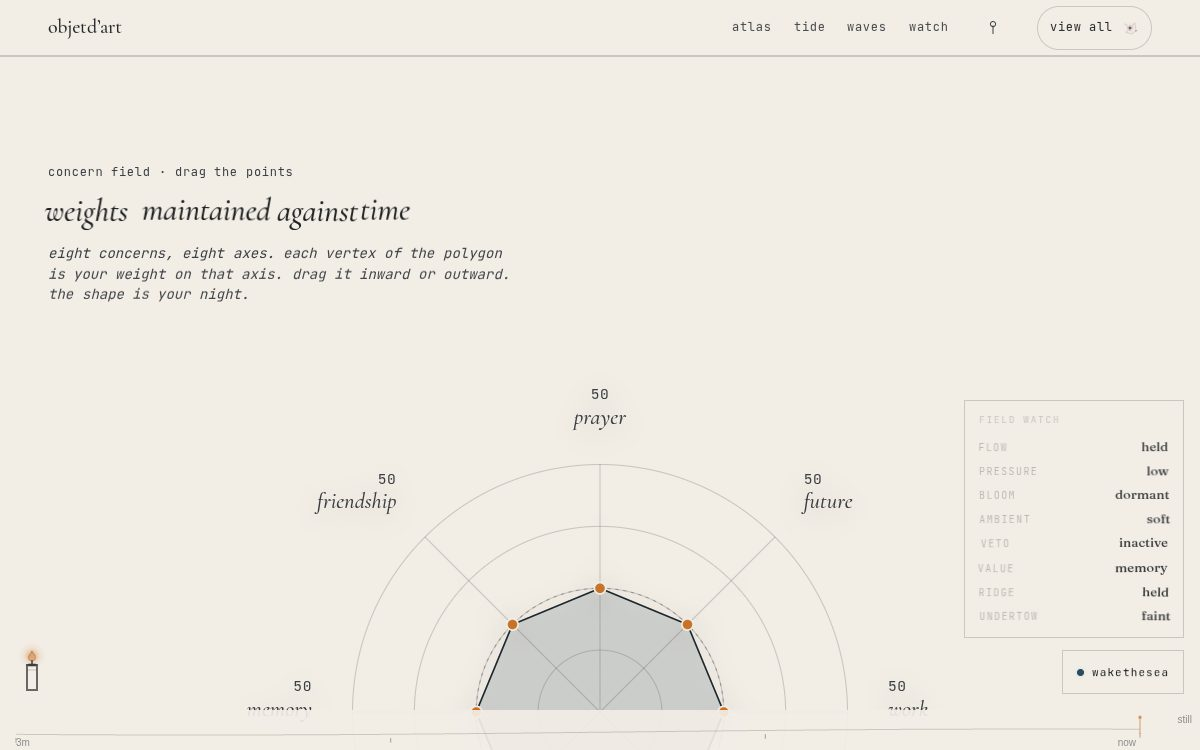
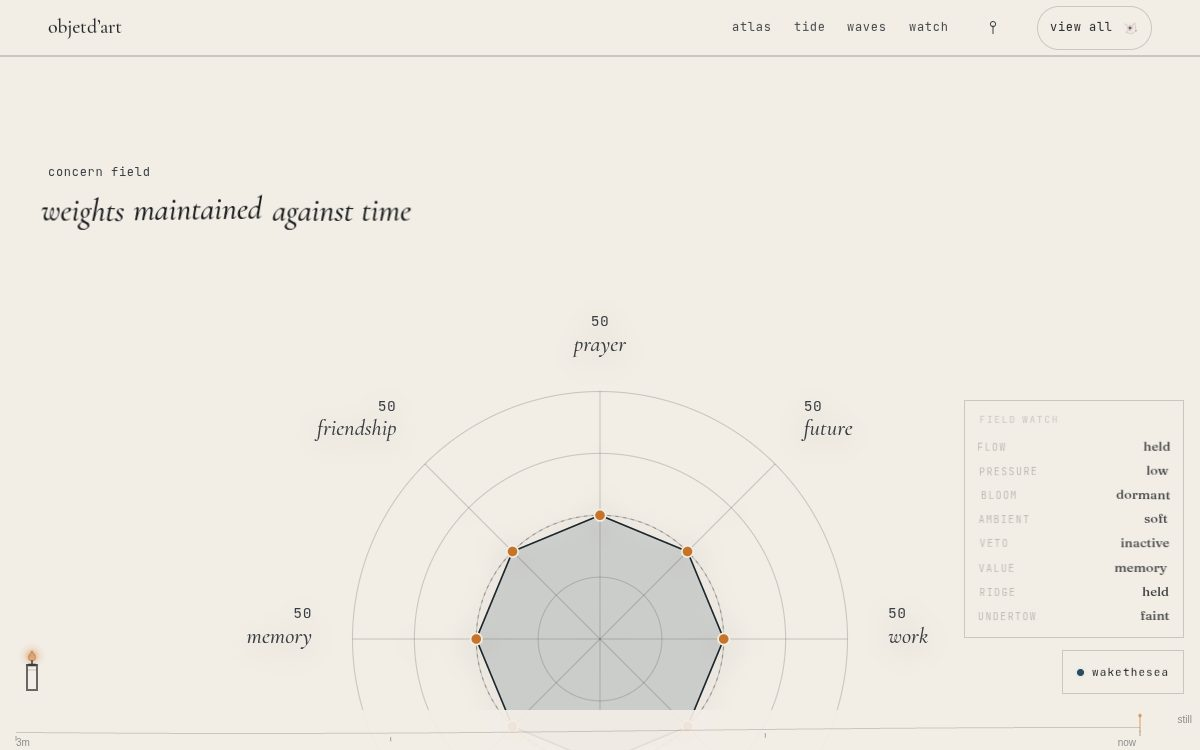
docs(iterations): the orb lights, and the mountain draws nothing quickly
The orb compiles on a real driver now and stands three discs up on arrival.

The mountain is measured rather than guessed: 61 fps under software GL against
22 for the coast and 12 for the clouds, and a uniform cream field. A per-pixel
ray-march cannot outrun its drawing neighbours by three times; it is not marching
at all. Two red herrings recorded with it — a 2 fps first-paint transient that is
the relief bake, and a Playwright font-wait that looks like a hung room.

Claude-Session: https://claude.ai/code/session_01RLxHUB3sbWB6VFL43z6bp7

diff --git a/src/lib/heightfield.ts b/src/lib/heightfield.ts
@@ -65,8 +65,8 @@ export function mulberry32(seed: number): () => number {
  * on a number the field differentiates. A few hundred kilometres is already
  * many wavelengths of the coarsest octave — every seed gets its own range —
  * and it keeps the shader's arithmetic in the part of float32 that still
- * has digits. It also stays inside one HASH_MOD period (289 / BASE_FREQ ≈
- * 1763 km), so two seeds cannot alias onto the same mountain.
+ * has digits. It also stays inside one HASH_MOD period (512 / BASE_FREQ ≈
+ * 3123 km), so two seeds cannot alias onto the same mountain.
  */
 export const SEED_SPREAD_KM = 512;
 
@@ -113,20 +113,31 @@ export function seedOffset(seed: number): [number, number] {
 // rectangle. Nothing in node could see it, because node has no float32.
 //
 // So the hash is an exact one instead. Every intermediate below is an
-// integer under 2^24, which float32 and float64 both hold exactly, and the
-// only division is by HASH_MOD, whose quotient's fractional part is never
-// nearer an integer than 1/HASH_MOD — so `floor` cannot disagree either.
-// Two languages, one answer, bit for bit. scripts/test-heightfield.mjs
-// pins that by running the whole hash again under Math.fround.
+// integer under 2^24, which float32 and float64 both hold exactly, and
+// every division is by a power of two, which is exact in both. Nothing
+// rounds anywhere, so the two languages return the same bits — not nearly
+// the same number, the same bits. scripts/test-heightfield.mjs pins that by
+// running the whole hash again under Math.fround.
 
 /**
- * The permutation modulus: 17², chosen because
- * `v -> (HASH_MUL·v + 1)·v mod 17²` is a bijection there (it is not, on a
- * prime), so each round is a shuffle rather than a collapse. 289 is also
- * small enough that the largest product it can produce,
- * (34·288 + 1)·288 = 2820384, sits comfortably under float32's 2^24.
+ * The permutation modulus, and why it is a power of two.
+ *
+ * `v -> (HASH_MUL·v + 1)·v mod M` is a bijection whenever HASH_MUL is even:
+ * the difference of two outputs factors as (x−y)·(HASH_MUL·(x+y) + 1), and
+ * that second factor is odd, so it is invertible mod any 2^k. A shuffle,
+ * then, never a collapse — and unlike an odd modulus it needs no division:
+ * 1/512 is exact, so `floor(v · HASH_INV_MOD)` and `v · HASH_INV_MOD`
+ * round-trip identically in float32 and float64 rather than merely closely.
+ * (289 = 17² is the other bijective choice and was measured against this
+ * one: same distribution, twenty times the lattice correlation, three
+ * divides per hash instead of three multiplies, and agreement only to 3e-8
+ * instead of exact.)
+ *
+ * The largest product it can produce, (34·511 + 1)·511 = 8878625, sits well
+ * under float32's exactly-representable 2^24.
  */
-export const HASH_MOD = 289;
+export const HASH_MOD = 512;
+export const HASH_INV_MOD = 1 / 512;
 export const HASH_MUL = 34;
 
 function fract(v: number): number {
@@ -143,7 +154,7 @@ function smoothstep(e0: number, e1: number, x: number): number {
 }
 
 function hashWrap(v: number): number {
-  return v - HASH_MOD * Math.floor(v / HASH_MOD);
+  return v - HASH_MOD * Math.floor(v * HASH_INV_MOD);
 }
 
 function hashPermute(v: number): number {
@@ -157,16 +168,17 @@ function hashPermute(v: number): number {
  * that shows the shift as diagonal corduroy across the whole range.
  *
  * Periodic with period HASH_MOD in both axes by construction. At the
- * coarsest octave that is 1763 km, far past MARCH_MAX_KM; at the finest it
- * is 23 km, carrying 15 m of amplitude — and each octave is turned, so no
- * two repeats line up in world space.
+ * coarsest octave that is 3123 km, a hundred times MARCH_MAX_KM; at the
+ * finest it is 41 km, still past the marcher's own horizon, and carrying
+ * 15 m of amplitude — and each octave is turned, so no two repeats could
+ * line up in world space even if the eye could reach them.
  */
 export function hash21(x: number, y: number): number {
   const wx = hashWrap(x);
   const wy = hashWrap(y);
   const a = hashPermute(wx);
   const b = hashPermute(hashWrap(a + wy));
-  return hashPermute(hashWrap(b + wx)) / HASH_MOD;
+  return hashPermute(hashWrap(b + wx)) * HASH_INV_MOD;
 }
 
 /** Value noise in [0,1] with its exact gradient: [v, dv/dx, dv/dy]. */
@@ -696,8 +708,28 @@ export function submerged(
 
 // ——— where the wanderer stands ————————————————————————————————
 
-/** How far above the inversion the composition wants the eye, in km. */
-export const STATION_ABOVE_FOG_KM = 0.11;
+/**
+ * How far above the inversion the composition wants the eye — measured in
+ * the fog's OWN scale heights, which is the only unit that means anything
+ * here and the whole of a second bug.
+ *
+ * A hundred metres over the fog top sounds like standing above the fog. It
+ * is not: density falls as exp(−Δ/FOG_SCALE_HEIGHT_KM), and with a scale
+ * height of 290 m, 110 m up still leaves 0.70 of the fog's full density in
+ * the air at the eye — about half a kilometre of horizontal visibility. The
+ * room rendered exactly that, a uniform grey wash with a ridge somewhere in
+ * it, and the number gave no hint, because 0.11 km is not comparable to
+ * anything unless you already know what it is being compared to.
+ *
+ * Two and a half scale heights leaves 8% — clear air at the eye, a kilometre
+ * still legible at 40%, the far range fading at 8 km. That is the picture:
+ * near ridges crisp, distant ones dissolving, and the fog a sea you are
+ * standing over rather than weather you are standing in. Written as a
+ * multiple so raising FOG_SCALE_HEIGHT_KM can never quietly drown the eye
+ * again.
+ */
+export const STATION_FOG_CLEARANCE = 2.5;
+export const STATION_ABOVE_FOG_KM = STATION_FOG_CLEARANCE * FOG_SCALE_HEIGHT_KM;
 /** Bearings walked down off the apex looking for that altitude. */
 export const STATION_BEARINGS = 64;
 export const STATION_INNER_KM = 0.12;
@@ -1198,6 +1230,7 @@ export function glslFloat(v: number): string {
 /** The float constants the GLSL shares with the TS, by their GLSL names. */
 export const HEIGHTFIELD_GLSL_FLOATS: Readonly<Record<string, number>> = {
   HASH_MOD,
+  HASH_INV_MOD,
   HASH_MUL,
   LACUNARITY,
   GAIN,
@@ -1274,7 +1307,7 @@ uniform vec4 uHornB[${HORN_COUNT}];
  * function returns bit for bit what the TS above returns --- which is the
  * only reason the eye the TS places is above the ground this shader draws.
  */
-float hf_hashWrap(float v) { return v - HASH_MOD * floor(v / HASH_MOD); }
+float hf_hashWrap(float v) { return v - HASH_MOD * floor(v * HASH_INV_MOD); }
 
 float hf_hashPermute(float v) { return hf_hashWrap((HASH_MUL * v + 1.0) * v); }
 
@@ -1283,7 +1316,7 @@ float hf_hash21(vec2 p) {
   float wy = hf_hashWrap(p.y);
   float a = hf_hashPermute(wx);
   float b = hf_hashPermute(hf_hashWrap(a + wy));
-  return hf_hashPermute(hf_hashWrap(b + wx)) / HASH_MOD;
+  return hf_hashPermute(hf_hashWrap(b + wx)) * HASH_INV_MOD;
 }
 
 /** value noise in [0,1] with its exact gradient: (v, dv/dx, dv/dy) */

diff --git a/src/components/ConcernField.tsx b/src/components/ConcernField.tsx
@@ -1,6 +1,6 @@
 "use client";
 
-import { useEffect, useRef, useState } from "react";
+import { useCallback, useEffect, useRef, useState } from "react";
 import { useRouter } from "next/navigation";
 import { useField } from "@/store/field";
 import { CONCERNS, PRESET_KEYS, PRESETS } from "@/data/content";
@@ -117,6 +117,22 @@ export default function ConcernField() {
   const roseRef = useRef(0);
   // the dwell's charge, so a resting finger is visible from the tier it crosses
   const [charging, setCharging] = useState<{ k: ConcernKey; grip: number } | null>(null);
+  // The glimmer (docs/gesture-grammar.md §6.3). The instruction that used to
+  // sit above this compass is gone, and a room does not get to be silent about
+  // its own material instead — so after ~20s of stillness one bead tugs
+  // outward along its axis and settles back, sounding its own concern as it
+  // goes. Physical, never text; it moves nothing that is stored, so the shape
+  // the visitor left is exactly the shape they come back to.
+  const [glimmer, setGlimmer] = useState<{ k: ConcernKey; key: number } | null>(null);
+  const glimmerOnRef = useRef(false);
+  glimmerOnRef.current = glimmer != null;
+  const lastContactRef = useRef(0);
+  const pulseVoiceRef = useRef<(k: ConcernKey, ms?: number) => void>(() => {});
+  /** any hand on the rose resets the idle clock and puts the glimmer away */
+  const touched = useCallback(() => {
+    lastContactRef.current = performance.now();
+    if (glimmerOnRef.current) setGlimmer(null);
+  }, []);
 
   // map a client-space pointer to a value on a given axis
   const valueFromPointer = (k: ConcernKey, clientX: number, clientY: number) => {
@@ -253,6 +269,9 @@ export default function ConcernField() {
         pulseTimers.add(t);
       } catch { /* noop */ }
     };
+    // the glimmer clock below sounds the same voice the hand would hear, so
+    // the hint and the answer are one instrument rather than two
+    pulseVoiceRef.current = pulseVoice;
 
     // ceremony hold bookkeeping: only a hold born near the polygon's
     // center gathers toward the keep
@@ -272,6 +291,7 @@ export default function ConcernField() {
     let chargeTarget: { k: ConcernKey; from: number } | null = null;
     const detach = attachGestures(svg as unknown as HTMLElement, {
       tap: (e) => {
+        touched();
         if (e.fingers === 2) {
           // step back: the compass has no camera of its own, so the frame
           // retreats the only way it can — the rose returns to true north
@@ -304,6 +324,7 @@ export default function ConcernField() {
         recordTape("ripple", 0.3 + e.intensity * 0.4, hit.k);
       },
       twist: (e) => {
+        touched();
         if (e.phase !== "move") return;
         if (e.fingers === 3) {
           // season — the room's slow cycle is the run of named presets, and
@@ -332,6 +353,7 @@ export default function ConcernField() {
         try { haptics.lens(); } catch { /* noop */ }
       },
       drag: (e) => {
+        touched();
         if (e.fingers !== 3) return;
         // weather — a gust across the rose. Every concern downwind gains
         // what the upwind ones lose, in proportion to how squarely it faces
@@ -350,6 +372,7 @@ export default function ConcernField() {
         });
       },
       rhythm: (e) => {
+        touched();
         // a steady tapped tempo: the dominant concern's voice falls into
         // the hand's pulse for ~8s
         if (e.stability <= 0.7) return;
@@ -374,6 +397,7 @@ export default function ConcernField() {
         recordTape("sigil", 0.5, `compass/entrain-${dominant}`);
       },
       hold: (e) => {
+        touched();
         if (e.fingers === 3) {
           // three-finger hold = time dilation while held: the compass's
           // own answers (tap glow, rhythm beat) slow continuously with
@@ -498,7 +522,41 @@ export default function ConcernField() {
       pulseTimers.forEach((t) => clearTimeout(t));
       try { getFieldAudio().releaseAllConcernTones(); } catch { /* noop */ }
     };
-  }, [recordTape, setConcern]);
+  }, [recordTape, setConcern, touched]);
+
+  // ── the glimmer clock ──────────────────────────────────────────────
+  // Same shape and the same numbers as <RoomShell>'s: ~20s of stillness,
+  // and no more often than every 6s after that. The compass is not inside
+  // the shell (it owns its own engine mount, for the founding drag), so it
+  // keeps the clock itself rather than inventing a different one.
+  useEffect(() => {
+    if (typeof window === "undefined") return;
+    const reduce = window.matchMedia("(prefers-reduced-motion: reduce)").matches;
+    if (reduce) return; // reduced motion: the room stays still and says nothing
+    lastContactRef.current = performance.now();
+    let last = 0;
+    let turn = 0;
+    let clear: ReturnType<typeof setTimeout> | null = null;
+    const tick = window.setInterval(() => {
+      const now = performance.now();
+      if (now - lastContactRef.current < GLIMMER_IDLE_MS) return;
+      if (now - last < GLIMMER_REPEAT_MS) return;
+      last = now;
+      // walk the rose rather than picking one bead forever, so a long idle
+      // shows the hand that all eight are the same kind of thing
+      const k = RADIAL_ORDER[turn % RADIAL_ORDER.length];
+      turn += 1;
+      setGlimmer({ k, key: now });
+      pulseVoiceRef.current(k, 240);
+      try { haptics.tap(); } catch { /* noop */ }
+      if (clear) clearTimeout(clear);
+        clear = setTimeout(() => setGlimmer(null), GLIMMER_SPAN_MS);
+    }, 1000);
+    return () => {
+      window.clearInterval(tick);
+      if (clear) clearTimeout(clear);
+    };
+  }, []);
 
   // build the polygon points string
   const polygonPoints = RADIAL_ORDER.map((k, i) => {
